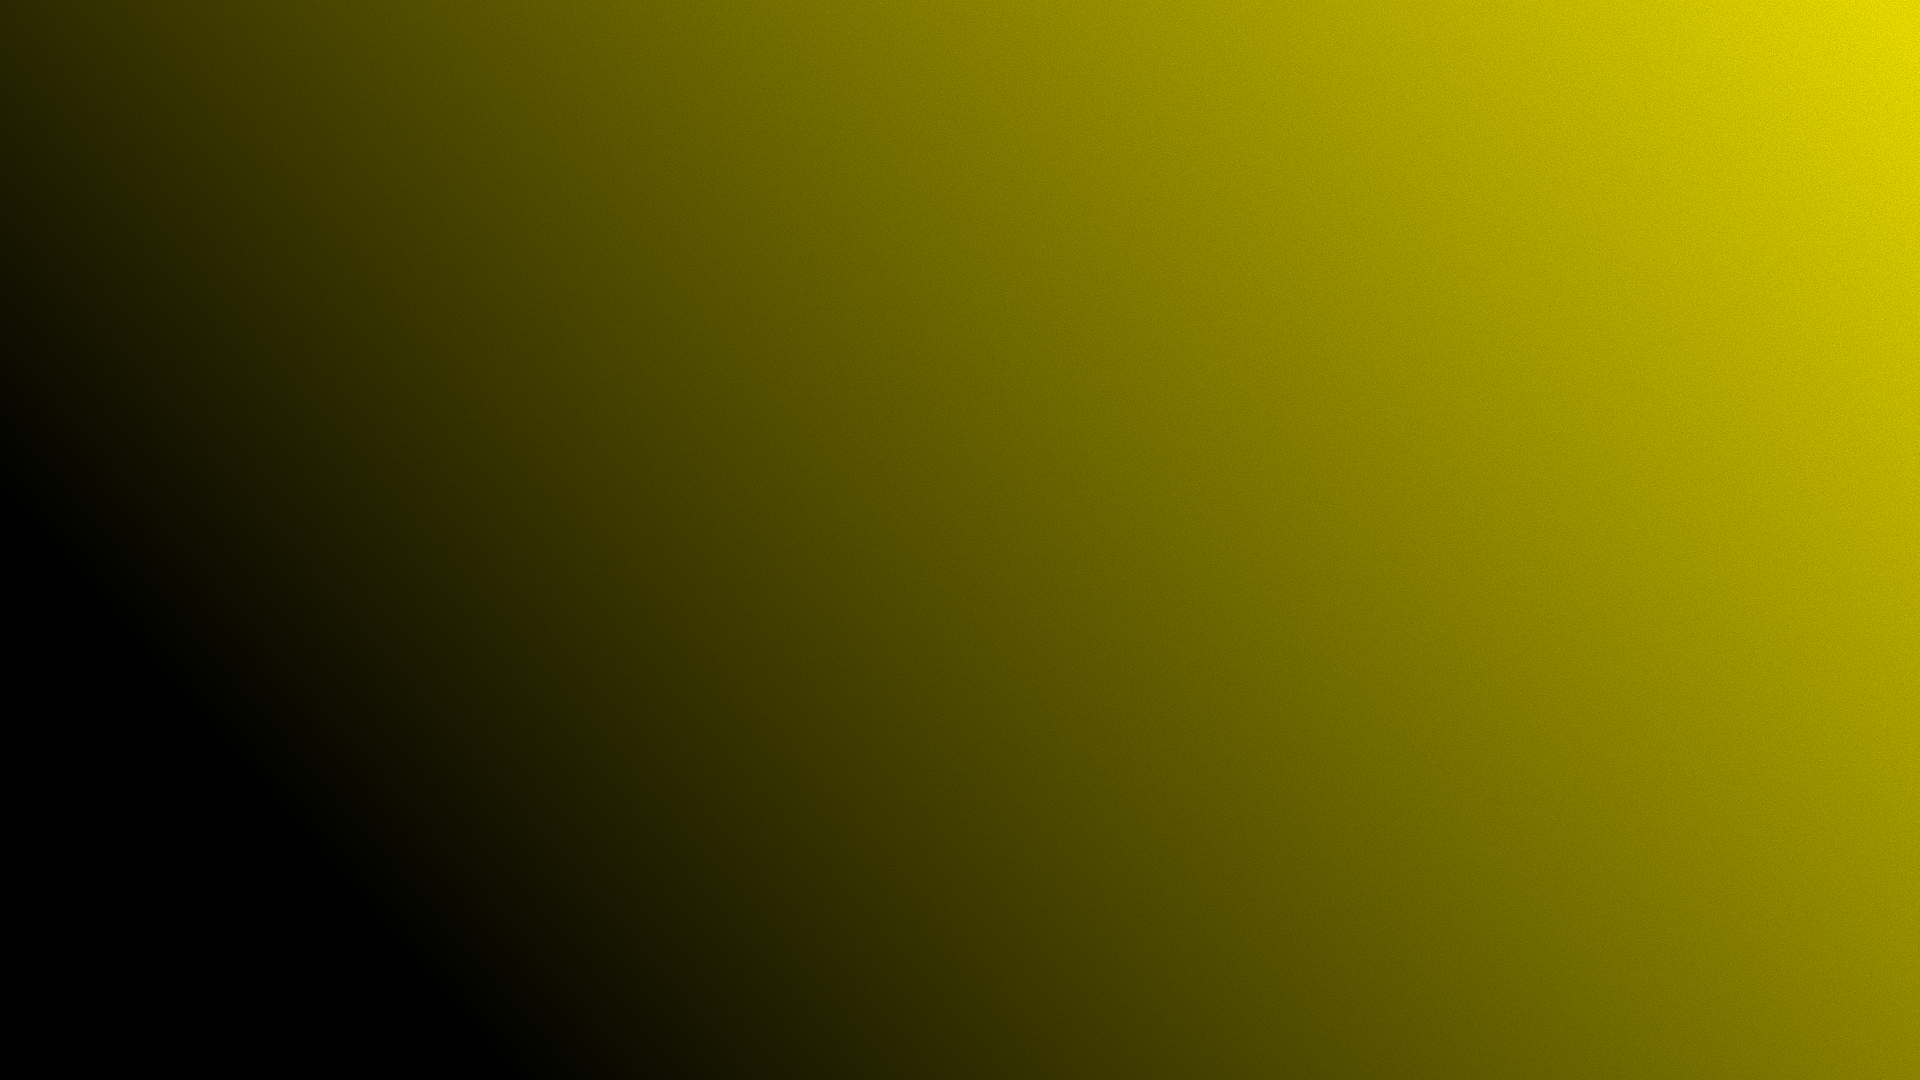
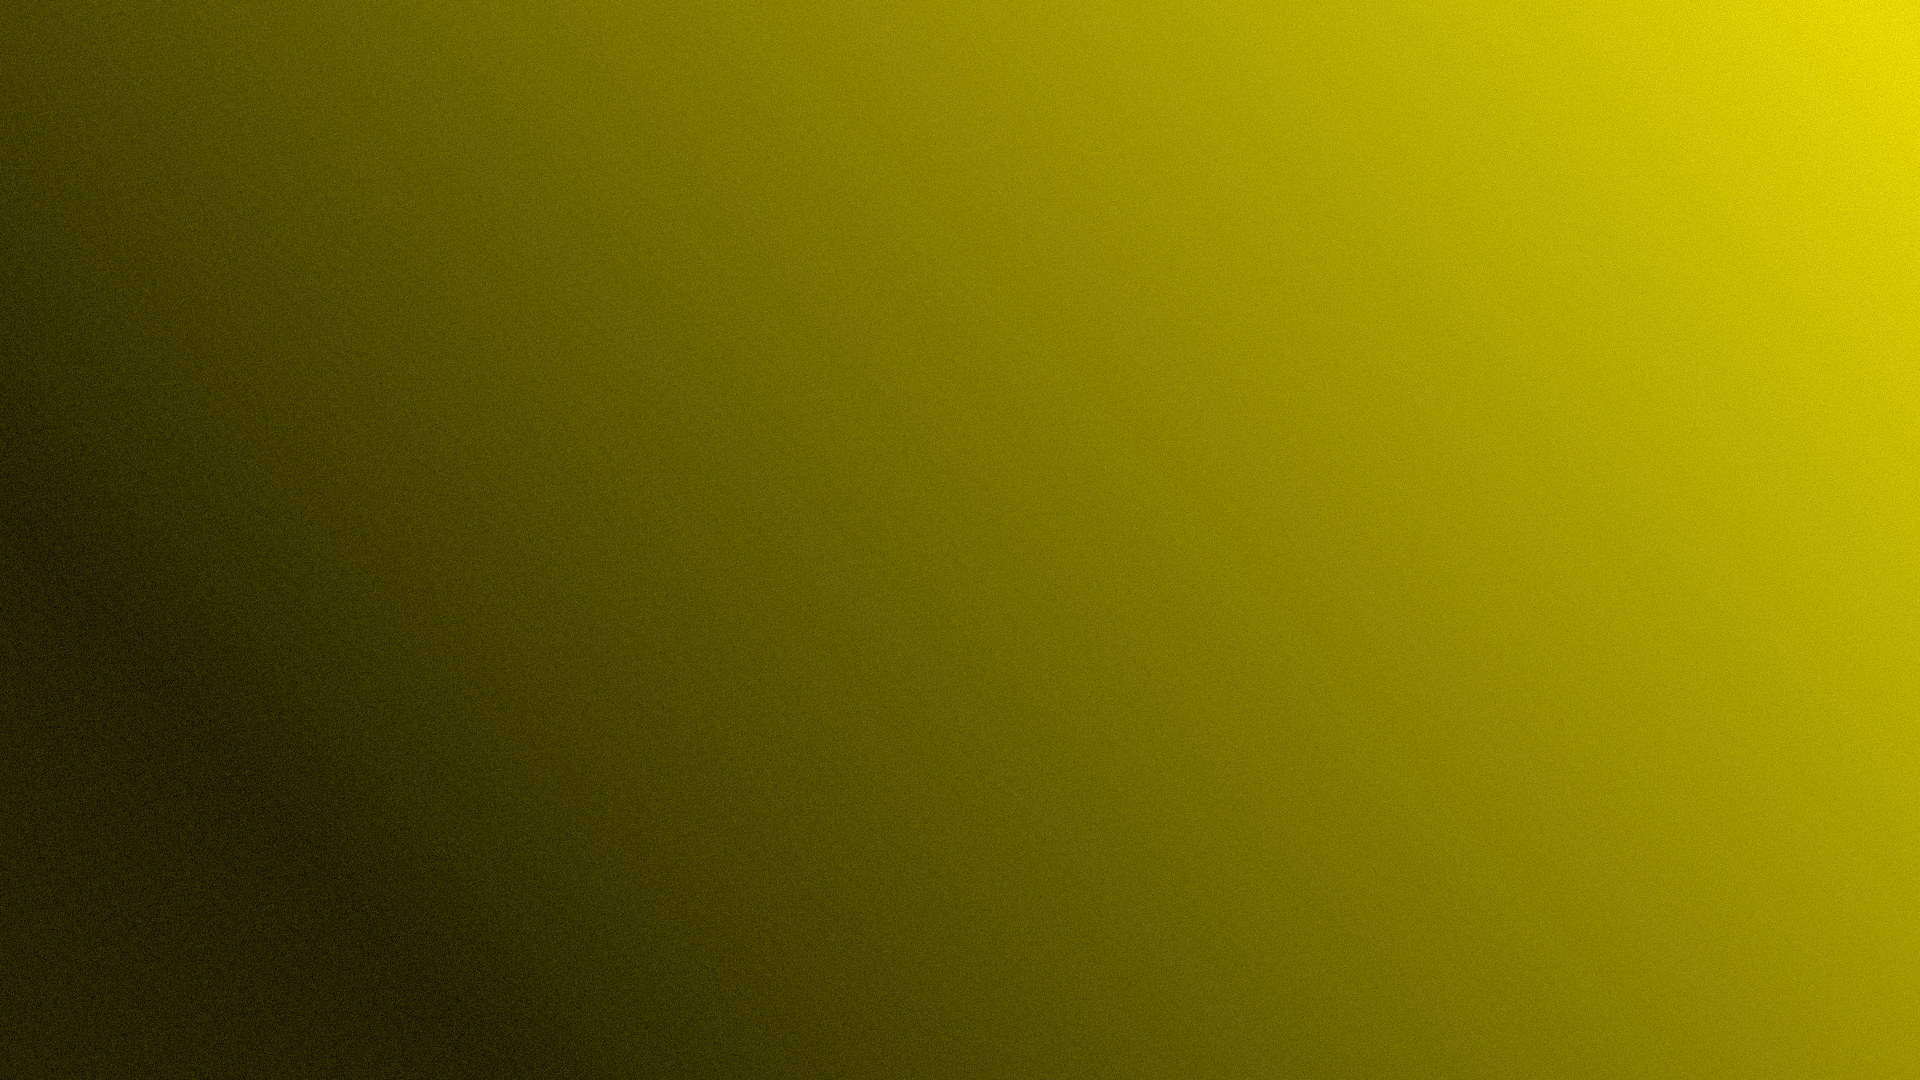
minggu siang

diff --git a/src/components/GifSection.jsx b/src/components/GifSection.jsx
@@ -1,41 +1,34 @@
 import React from 'react';
+import { motion } from 'framer-motion';
 
 const GifSection = () => {
     return (
-        <section id="gifsection" className="relative w-full section-modern bg-transparent">
-            <div className="max-w-[1400px] mx-auto px-6">
-
-                {/* Sky Background Container */}
-                <div className="relative w-full h-[400px] md:h-[550px] bg-gradient-to-b from-sky-400 via-sky-300 to-sky-200 rounded-lg overflow-hidden">
-
-                    {/* Clouds */}
-                    <div className="absolute w-72 h-24 bg-white/60 rounded-full blur-xl" style={{ top: '15%', left: '10%' }}></div>
-                    <div className="absolute w-96 h-32 bg-white/50 rounded-full blur-2xl" style={{ top: '30%', right: '15%' }}></div>
-                    <div className="absolute w-64 h-28 bg-white/60 rounded-full blur-xl" style={{ top: '65%', left: '50%' }}></div>
-                    <div className="absolute w-80 h-32 bg-white/50 rounded-full blur-2xl" style={{ top: '75%', right: '25%' }}></div>
-
-                    {/* GIF/Video Container */}
-                    <div className="absolute inset-0 flex items-center justify-center">
-                        {/* Ganti src dengan path GIF/video kamu */}
-                        <img
-                            src="/videos/ituh.gif"
-                            alt="Portfolio Work"
-                            className="w-full h-full object-cover"
-                            onError={(e) => {
-                                // Fallback kalau GIF gak ada
-                                e.target.style.display = 'none';
-                                e.target.nextElementSibling.style.display = 'flex';
-                            }}
-                        />
-
-                        {/* Fallback Box */}
-                        <div className="hidden w-full h-full items-center justify-center bg-blue-500/20">
-                            <p className="text-white font-bold text-xl">Add your GIF/video here</p>
-                        </div>
-                    </div>
-
-                </div>
-            </div>
+        <section
+            className="relative w-screen h-screen flex items-center justify-center overflow-hidden"
+            style={{
+                backgroundImage: `url('/image/Rectangle 2.png')`,
+                backgroundSize: 'cover',
+                backgroundPosition: 'center',
+                backgroundRepeat: 'no-repeat',
+                width: '100vw',
+                height: '100vh',
+                margin: 0,
+                padding: 0
+            }}
+        >
+            {/* GIF DI TENGAH AJA */}
+            <motion.div
+                initial={{ opacity: 0, scale: 0.85 }}
+                animate={{ opacity: 1, scale: 1 }}
+                transition={{ duration: 0.8, ease: "easeOut" }}
+                className="relative z-10"
+            >
+                <img
+                    src="/image/eyes.gif"
+                    alt="GIF Animation"
+                    className="w-[350px] md:w-[550px] lg:w-[750px] h-auto object-contain drop-shadow-2xl"
+                />
+            </motion.div>
         </section>
     );
 };

diff --git a/src/components/MentionShowcase.jsx b/src/components/MentionShowcase.jsx
@@ -45,65 +45,33 @@ const MentionShowcase = () => {
             <div className="flex-1"></div>
 
             {/* Right - Bullet Points */}
-            <div className="flex-1 md:max-w-md">
-              <ul className="space-y-3">
+            <div className="flex-5 md:max-w-md">
+              <ul className="space-y-1">
                 <li className="flex items-center gap-3">
                   <div className="w-2 h-2 bg-[#1a1a1a] rounded-full"></div>
-                  <p className="text-lg md:text-xl font-bold text-[#1a1a1a] font-['Inter']">full identity</p>
+                  <p className="text-lg md:text-xl font-bold text-[#1a1a1a] font-['Inter']">Brand Identity Kit</p>
                 </li>
                 <li className="flex items-center gap-3">
                   <div className="w-2 h-2 bg-[#1a1a1a] rounded-full"></div>
-                  <p className="text-lg md:text-xl font-bold text-[#1a1a1a] font-['Inter']">full pitch deck</p>
+                  <p className="text-lg md:text-xl font-bold text-[#1a1a1a] font-['Inter']">Social Media Kit</p>
                 </li>
                 <li className="flex items-center gap-3">
                   <div className="w-2 h-2 bg-[#1a1a1a] rounded-full"></div>
-                  <p className="text-lg md:text-xl font-bold text-[#1a1a1a] font-['Inter']">social media</p>
+                  <p className="text-lg md:text-xl font-bold text-[#1a1a1a] font-['Inter']">Educational Publication</p>
                 </li>
                 <li className="flex items-center gap-3">
                   <div className="w-2 h-2 bg-[#1a1a1a] rounded-full"></div>
-                  <p className="text-lg md:text-xl font-bold text-[#1a1a1a] font-['Inter']">brand assets</p>
+                  <p className="text-lg md:text-xl font-bold text-[#1a1a1a] font-['Inter']">Eventual & Celebration Poster</p>
                 </li>
                 <li className="flex items-center gap-3">
                   <div className="w-2 h-2 bg-[#1a1a1a] rounded-full"></div>
-                  <p className="text-lg md:text-xl font-bold text-[#1a1a1a] font-['Inter']">website</p>
+                  <p className="text-lg md:text-xl font-bold text-[#1a1a1a] font-['Inter']">interactive UI/UX design</p>
                 </li>
               </ul>
             </div>
           </motion.div>
 
         </div>
-      </section>
-
-      {/* === SECTION 2: BACKGROUND IMAGE ONLY (Full Screen) === */}
-      <section className="relative w-full h-screen overflow-hidden">
-        <motion.div
-          initial={{ opacity: 0 }}
-          whileInView={{ opacity: 1 }}
-          transition={{ duration: 1 }}
-          className="w-full h-full"
-        >
-          <img 
-            src="/image/rectangle.png" 
-            alt="Mention Background"
-            className="w-full h-full object-cover"
-          />
-        </motion.div>
-      </section>
-
-      {/* === SECTION 3: LOGO IMAGE ONLY (Full Screen) === */}
-      <section className="relative w-full h-screen bg-white flex items-center justify-center overflow-hidden">
-        <motion.div
-          initial={{ opacity: 0, scale: 0.9 }}
-          whileInView={{ opacity: 1, scale: 1 }}
-          transition={{ duration: 0.8 }}
-          className="w-full h-full flex items-center justify-center px-8"
-        >
-          <img 
-            src="/image/mention.png" 
-            alt="Mention Logo"
-            className="w-full h-auto max-w-4xl object-contain"
-          />
-        </motion.div>
       </section>
     </>
   );

diff --git a/src/components/MentionVisuals.jsx b/src/components/MentionVisuals.jsx
@@ -1,0 +1,35 @@
+import React from 'react';
+import { motion } from 'framer-motion';
+
+const MentionVisuals = () => {
+    return (
+<section className="relative w-full h-screen flex items-center justify-center overflow-hidden">
+
+    {/* Background Image (Kuning Gradient) */}
+    <div className="absolute inset-0">
+        <img
+            src="/image/Rectangle 2.png"
+            alt="Mention Background"
+            className="w-full h-full object-cover"
+        />
+    </div>
+
+    {/* Logo di Atas Background (Center) */}
+    <motion.div
+        initial={{ opacity: 0, scale: 0.9 }}
+        animate={{ opacity: 1, scale: 1 }}
+        transition={{ duration: 0.8 }}
+        className="relative z-10 w-full h-full flex items-center justify-center px-8"
+    >
+        <img
+            src="/image/mention.png"
+            alt="Mention Logo"
+            className="w-full h-auto max-w-4xl object-contain"
+        />
+    </motion.div>
+
+</section>
+  );
+};
+
+export default MentionVisuals;

diff --git a/src/App.js b/src/App.js
@@ -23,6 +23,7 @@ import Tools from './components/Tools';
 import Inside from './components/Inside';
 import BrandingCover from './components/BrandingCover';
 import MentionShowcase from './components/MentionShowcase';
+import MentionVisuals from './components/MentionVisuals';
 
 // Main Content Component
 function AppContent() {
@@ -74,6 +75,8 @@ function AppContent() {
             <Inside />
             <BrandingCover/>
             <MentionShowcase />
+            <MentionVisuals/>
+            <GifSection/>
             <PosterShowcase />
             <SocialMedia />
             <WebDevShowcase />